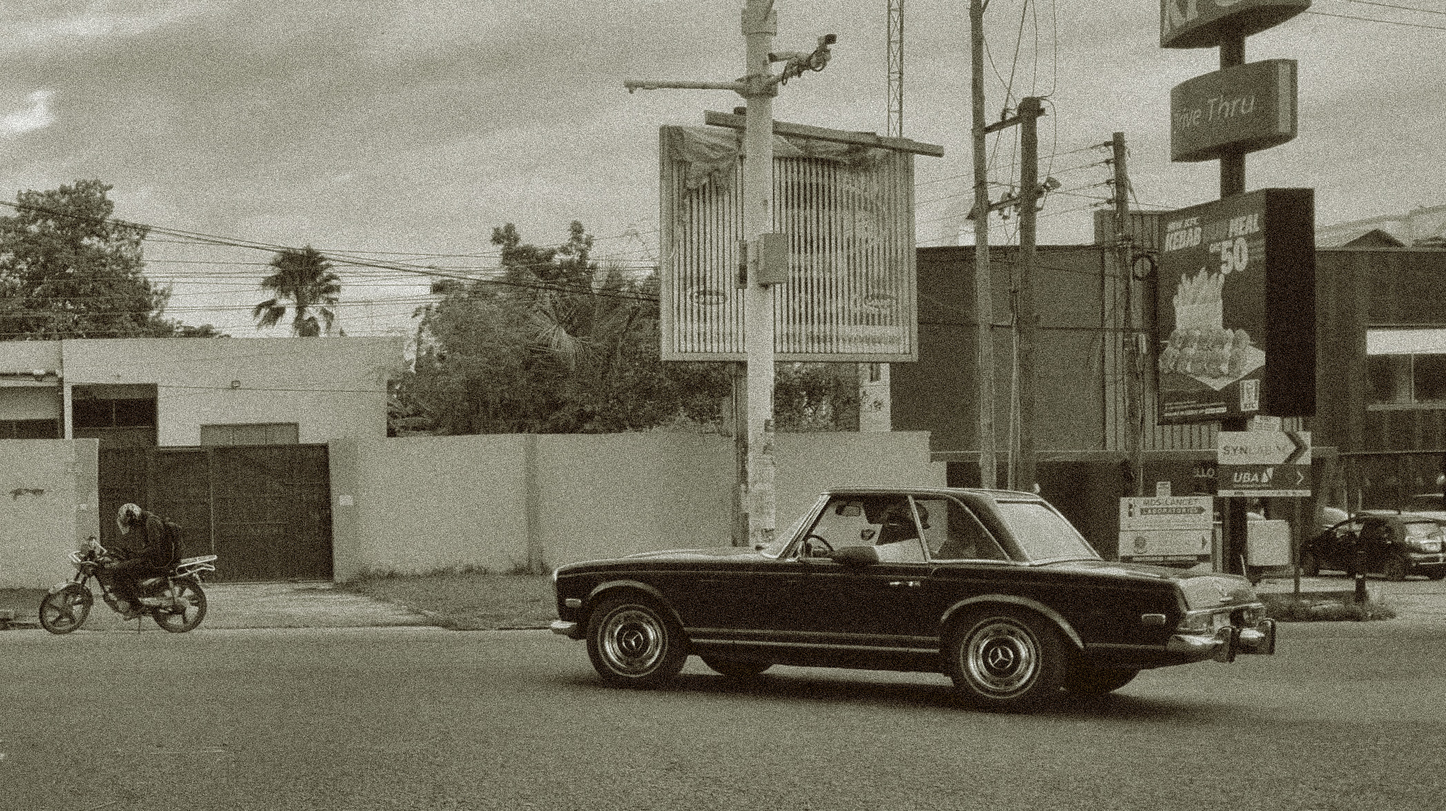
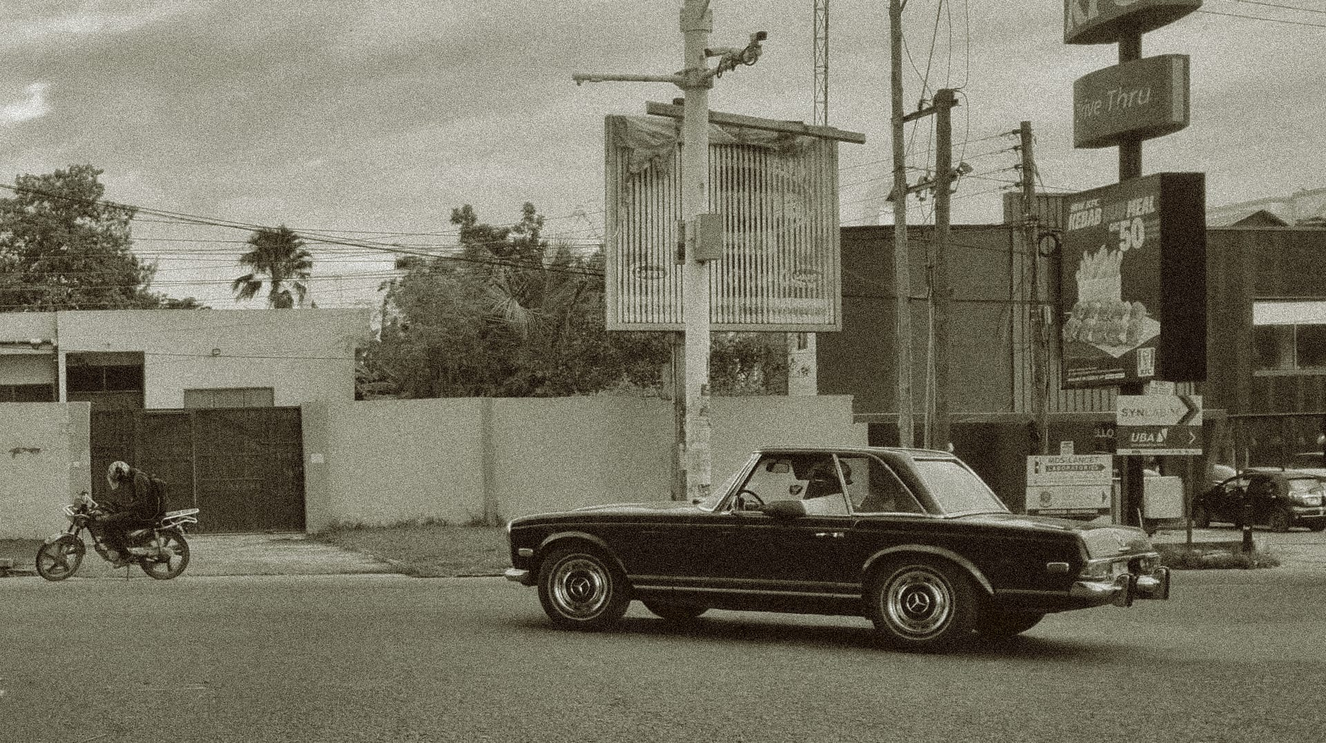
feat: compress slider images to webp and update social links in footer

diff --git a/app/page.js b/app/page.js
@@ -6,9 +6,9 @@ import Link from 'next/link';
 import { AnimatePresence, motion } from 'framer-motion';
 
 const heroSlides = [
-  { src: '/slider1.jpeg', alt: 'People beside a fishing boat on the beach', label: 'Coastal stories' },
-  { src: '/slider2.jpeg', alt: 'Two people standing in the surf', label: 'By the water' },
-  { src: '/slider3.jpg', alt: 'A vintage car passing through an Accra street', label: 'Street memories' },
+  { src: '/slider1.webp', alt: 'People beside a fishing boat on the beach', label: 'Coastal stories' },
+  { src: '/slider2.webp', alt: 'Two people standing in the surf', label: 'By the water' },
+  { src: '/slider3.webp', alt: 'A vintage car passing through an Accra street', label: 'Street memories' },
 ];
 
 const featuredImages = [

diff --git a/app/components/Footer.js b/app/components/Footer.js
@@ -2,8 +2,7 @@ import Image from 'next/image';
 import Link from 'next/link';
 
 const socialLinks = [
-  { name: 'Instagram', href: 'https://instagram.com/thearchive' },
-  { name: 'Facebook', href: 'https://facebook.com/thearchive' },
+  { name: 'Instagram', href: 'https://www.instagram.com/ak_deez/' },
   { name: 'TikTok', href: 'https://www.tiktok.com/@glitchstudioz' },
 ];
 
